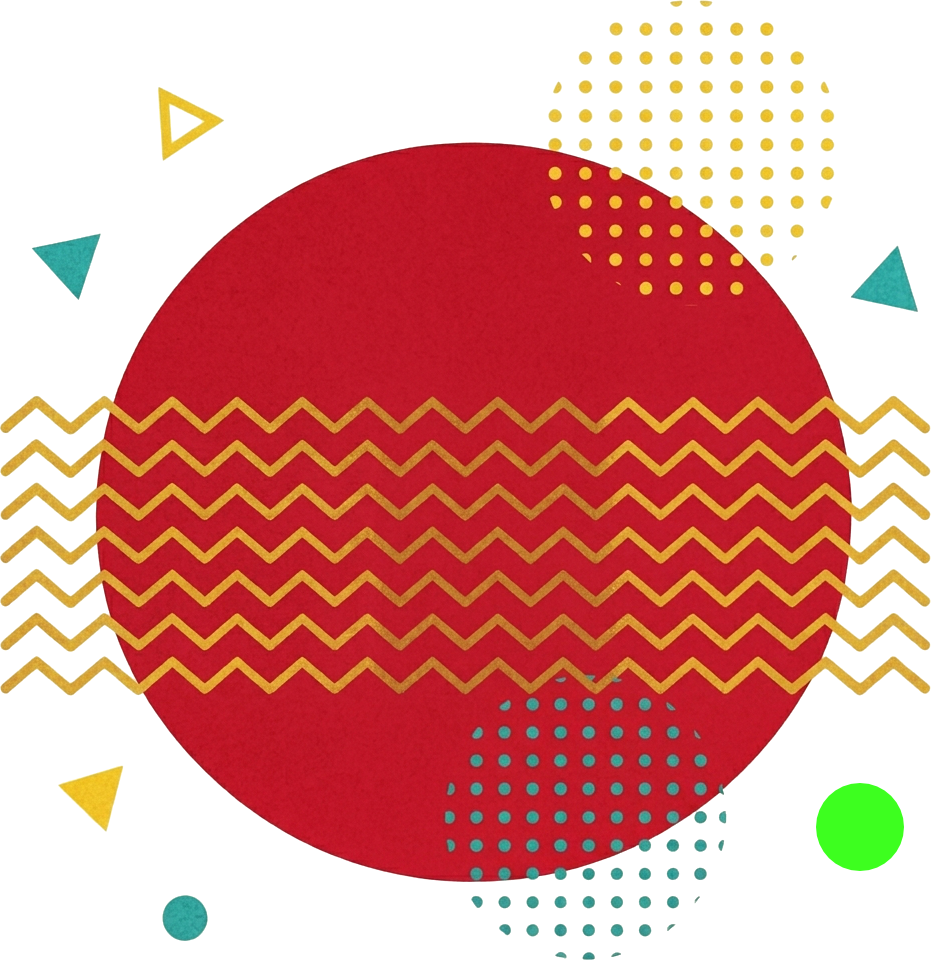
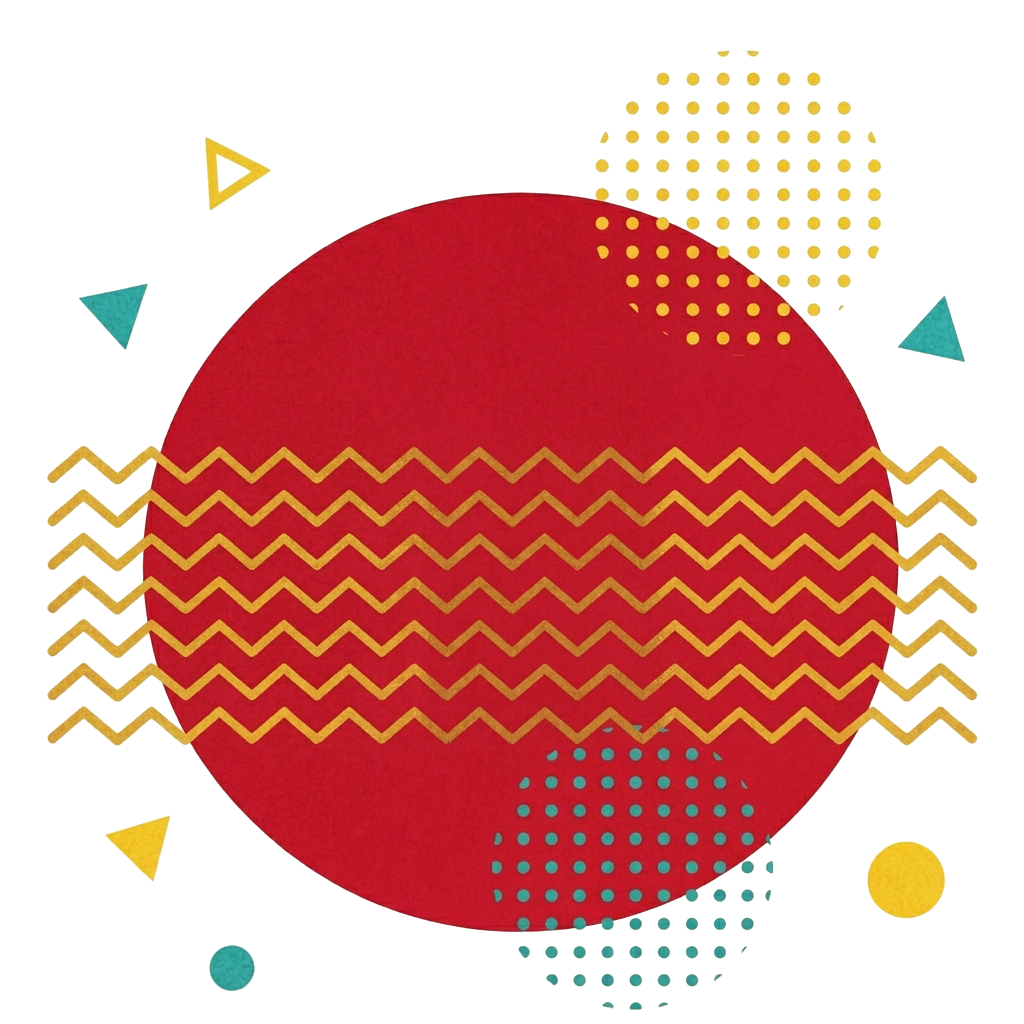
Add files via upload

diff --git a/style.css b/style.css
@@ -49,12 +49,17 @@ a {
   border-radius: 50px;
   padding: .85rem 2.2rem;
   cursor: pointer;
-  transition: transform .18s, box-shadow .18s, background .18s;
+  color: var(--white);
+  transition: all .3s ease;
 }
 
 .btn:hover {
-  transform: translateY(-2px);
-  box-shadow: 0 6px 22px rgba(0, 0, 0, .18);
+  transform: translateY(-3px);
+  box-shadow: 0 5px 15px rgba(0, 0, 0, 0.15);
+}
+
+.mobile-tab-bar {
+  display: none;
 }
 
 .btn-yellow {
@@ -1260,6 +1265,39 @@ a {
   }
 
   /* Mobile nav */
+  body {
+    padding-bottom: 70px;
+  }
+  
+  .navbar {
+    display: none !important;
+  }
+  
+  .mobile-tab-bar {
+    display: flex;
+    position: fixed;
+    bottom: 0;
+    left: 0;
+    width: 100%;
+    background: #fff;
+    box-shadow: 0 -4px 20px rgba(0,0,0,0.1);
+    z-index: 1000;
+    justify-content: space-around;
+    align-items: center;
+    padding: 18px 5px calc(18px + env(safe-area-inset-bottom));
+  }
+  .mobile-tab-bar a {
+    font-size: 0.75rem;
+    font-family: 'Plus Jakarta Sans', sans-serif;
+    font-weight: 800;
+    color: var(--dark);
+    text-decoration: none;
+    text-align: center;
+  }
+  .mobile-tab-bar .tab-cta {
+    color: var(--red);
+  }
+
   .burger {
     display: flex;
   }
@@ -1303,7 +1341,7 @@ a {
   .hero-content {
     grid-template-columns: 1fr;
     text-align: center;
-    padding: 3rem 6%;
+    padding: 2rem 6% 3rem;
   }
 
   .hero-text p {
@@ -1316,8 +1354,19 @@ a {
     margin: 0 auto;
   }
 
+  .hero-image {
+    margin-top: 3rem;
+  }
+
   .hero-image img {
     width: min(300px, 76vw);
+  }
+
+  .hero-memphis .deco:nth-child(odd) {
+    display: none;
+  }
+  .hero-memphis .deco:nth-child(even) {
+    transform: scale(0.6);
   }
 
   .bc1 {
@@ -1334,12 +1383,27 @@ a {
   }
 
   .ingredient-card {
-    width: 160px;
+    width: auto;
+  }
+  
+  .desk-br {
+    display: none;
+  }
+  
+  .ingredient-card p {
+    display: none;
+  }
+  
+  .ingredient-card h3 {
+    font-size: 0.85rem;
+    white-space: nowrap;
+    min-height: auto;
+    margin-top: 5px;
   }
 
   .ing-image {
-    width: 130px;
-    height: 130px;
+    width: 140px;
+    height: 140px;
   }
 
   /* Steps */
@@ -1354,16 +1418,31 @@ a {
     max-width: 460px;
     margin: 0 auto;
   }
+  
+  .promo-content {
+    flex-direction: column;
+    text-align: center;
+    align-items: center;
+  }
+
+  /* Chi Siamo */
+  .chi-deco {
+    display: none;
+  }
 }
 
 @media (max-width: 480px) {
   .ingredient-card {
-    width: 145px;
+    width: auto;
+  }
+
+  .ingredient-card h3 {
+    font-size: 0.75rem;
   }
 
   .ing-image {
-    width: 110px;
-    height: 110px;
+    width: 120px;
+    height: 120px;
   }
 
   .steps-grid {

diff --git a/index.html b/index.html
@@ -92,14 +92,14 @@
       <!-- Pomodoro San Marzano – rosso -->
       <div class="ingredient-card">
         <img src="PRIng.png" alt="Pomodoro San Marzano" class="ing-image" />
-        <h3><span>POMODORO<br>SAN MARZANO</span></h3>
+        <h3><span>POMODORO <br class="desk-br"> SAN MARZANO</span></h3>
         <p>Il cuore dolce della nostra salsa, maturati al sole.</p>
       </div>
 
       <!-- Pomodoro Datterino Giallo – giallo -->
       <div class="ingredient-card">
         <img src="DGIng.png" alt="Pomodoro Datterino Giallo" class="ing-image" />
-        <h3><span>POMODORO<br>DATTERINO GIALLO</span></h3>
+        <h3><span>POMODORO <br class="desk-br"> DATTERINO GIALLO</span></h3>
         <p>Dolcezza intensa e colore solare, tutto in un morso.</p>
       </div>
 
@@ -120,7 +120,7 @@
       <!-- Cipolla Rossa – viola -->
       <div class="ingredient-card">
         <img src="CiING.png" alt="Cipolla Rossa" class="ing-image" />
-        <h3><span>CIPOLLA<br>ROSSA</span></h3>
+        <h3><span>CIPOLLA <br class="desk-br"> ROSSA</span></h3>
         <p>Dolcezza e carattere, l'anima segreta del sugo.</p>
       </div>
 
@@ -298,6 +298,14 @@
     </div>
     <p>© 2025 PO MO DO – Sugo Pronto di Mamma Cristina. Tutti i diritti riservati.</p>
   </footer>
+
+  <!-- ===================== MOBILE TAB BAR ===================== -->
+  <nav class="mobile-tab-bar">
+    <a href="#prodotti" class="tab-item">Prodotti</a>
+    <a href="#promozioni" class="tab-item">Promo</a>
+    <a href="#chi-siamo" class="tab-item">Chi siamo</a>
+    <a href="https://wa.me/393201836065" target="_blank" class="tab-item tab-cta">Ordina</a>
+  </nav>
 
   <script src="main.js"></script>
 </body>